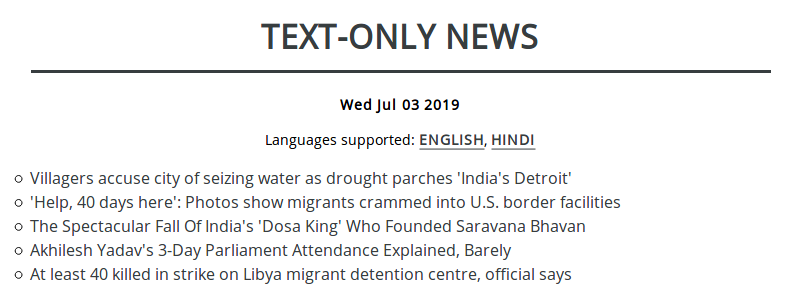
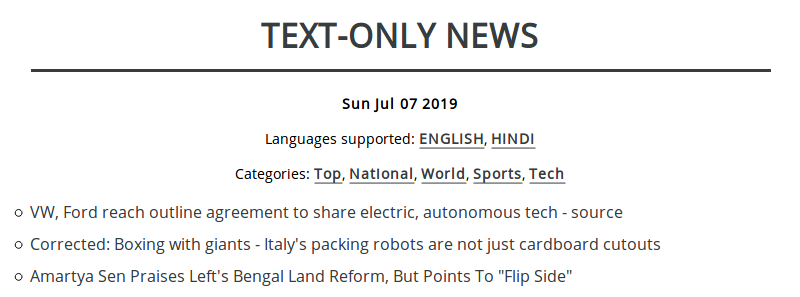
Updated README and screenshots
minor changes in categories section

diff --git a/templates/headlines.html b/templates/headlines.html
@@ -18,7 +18,7 @@
 
  		<p class="news-categories">Categories: 
  			{% for category in categories %}
- 				<a class="news_type" href="/{{ lang }}/{{ category }}">{{ category_map[category] }}</a>  
+ 				<a class="news_type" href="/{{ lang }}/{{ category }}">{{ category_map[category] }}</a>{{ "," if not loop.last }}  
  			{% endfor %}
  		</p>
 

diff --git a/get_news.py b/get_news.py
@@ -7,12 +7,14 @@ from rm_old_news import rm_news
 
 NEWS_URLS_PATH = './data/urls.json'
 DB_PATH = './data/news.sqlite3'
+CATEGORIES_ORDER_PATH = './data/categories_order.json'
 
 ARTICLE_CODES = {'english': 'en', 'hindi': 'hi'}
 
 class ParseNews():
 	def __init__(self):
 		self.urls = json.load(open(NEWS_URLS_PATH))
+		self.sort_order = json.load(open(CATEGORIES_ORDER_PATH))
 		self.feeds = dict()
 
 	def get_news(self, language):
@@ -90,15 +92,13 @@ class ParseNews():
 		return news_json
 
 	def fetch_categories(self, language):
-		SORT_ORDER = ['trending', 'national', 'international', 'sports', 'technology']
-
 		conn = sqlite3.connect(DB_PATH)
 		c = conn.cursor()
 		categories = set(c.execute("""SELECT category FROM News WHERE language=?""", (language, )).fetchall())
 
 		conn.close()
 		categories = sorted([category[0] for category in categories], 
-		                     key=lambda x: SORT_ORDER.index(x))
+		                     key=lambda x: self.sort_order.index(x))
 		return categories
 
 if __name__ == '__main__':

diff --git a/README.md b/README.md
@@ -10,6 +10,7 @@ Text-only news is a website to provide clutter-free news in various languages. T
 Features of this site are:
 * Low request sizes, fast loading time
 * Search articles with relevant keyword
+* News are segregated into various categories
 * Multilingual, currently supporting - English, Hindi
 * Clean UI
 
